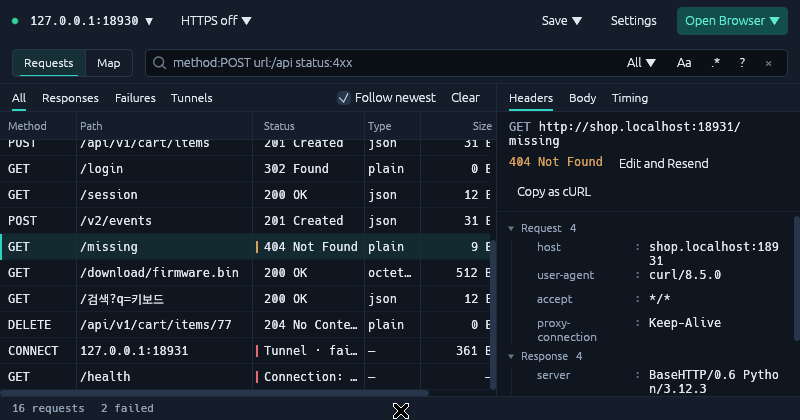
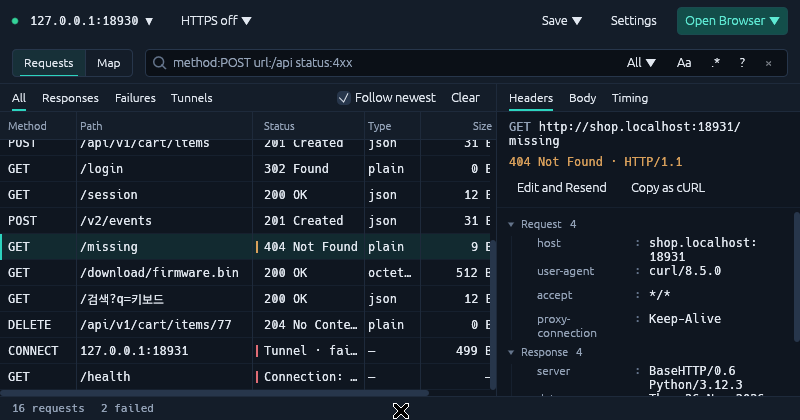
fix: Show the status line as sent and wrap values at spaces
The inspector's result line now shows the reason phrase the server sent
and the HTTP version it answered with (`502 Bad Gateway · HTTP/1.1`).
The redesign had dropped the old `Response headers · …` line, the only
place that showed them, leaving canonical phrases only and `Unknown
status` for nonstandard codes. The line sits in the result row rather
than the Response group so the status appears once (S16).

Key-value values no longer force `break_anywhere`: egui already breaks a
token without spaces anywhere when it does not fit, so URLs stay in the
column while values with spaces wrap between words again.

The status bar tooltips and the short body capture notices move to the
text catalog.

diff --git a/src/ui/workbench/tree.rs b/src/ui/workbench/tree.rs
@@ -359,14 +359,14 @@ pub(crate) fn key_value(
                 .selectable(false),
         );
         let width = (ui.available_width() - Space::MD).max(Layout::DETAIL_VALUE_MIN_WIDTH);
-        // Values such as URLs and tokens have no spaces, so they may break
-        // anywhere rather than run past the pane.
-        let mut job = std::sync::Arc::unwrap_or_clone(value.into().into_layout_job(
+        // Values wrap at spaces; a token without spaces, such as a URL,
+        // still breaks inside the value column because egui falls back to
+        // any position when a word does not fit on its row.
+        let job = value.into().into_layout_job(
             ui.style(),
             egui::FontSelection::Default,
             egui::Align::Min,
-        ));
-        job.wrap.break_anywhere = true;
+        );
         ui.allocate_ui_with_layout(
             egui::vec2(width, 0.0),
             egui::Layout::top_down(egui::Align::Min),
@@ -459,5 +459,65 @@ mod tests {
         items.sort_unstable();
         assert_eq!(items, [None, Some(true)]);
         Ok(())
+    }
+
+    /// Rows of the painted galley whose text is `text`, as strings.
+    fn painted_rows(shapes: &[egui::epaint::ClippedShape], text: &str) -> Vec<(String, f32)> {
+        shapes
+            .iter()
+            .filter_map(|clipped| match &clipped.shape {
+                egui::Shape::Text(shape) if shape.galley.text() == text => Some(shape),
+                _ => None,
+            })
+            .flat_map(|shape| {
+                shape.galley.rows.iter().map(|row| {
+                    let line: String = row.row.glyphs.iter().map(|glyph| glyph.chr).collect();
+                    (line, shape.pos.x + row.rect().right())
+                })
+            })
+            .collect()
+    }
+
+    #[test]
+    fn values_wrap_at_spaces_and_long_tokens_stay_in_the_column() {
+        const SPACED: &str = "Failed at Tunnel relay: Connection reset by peer (os error 104)";
+        const TOKEN: &str = "span-0123456789abcdefspan0123456789abcdefspan0123456789abcdef";
+        let ctx = egui::Context::default();
+        let mut value_column = 0.0;
+        let mut output = ctx.run_ui(egui::RawInput::default(), |ui| {
+            ui.allocate_ui(egui::vec2(320.0, 400.0), |ui| {
+                ui.set_width(320.0);
+                for value in [SPACED, TOKEN] {
+                    key_value(
+                        ui,
+                        96.0,
+                        "key",
+                        egui::RichText::new(value).font(fonts::data()),
+                    );
+                }
+                value_column = ui.max_rect().right();
+            });
+        });
+        output.textures_delta.clear();
+        let spaced = painted_rows(&output.shapes, SPACED);
+        assert!(spaced.len() > 1, "the value wraps: {spaced:?}");
+        let mut consumed = 0;
+        for (line, _) in &spaced {
+            consumed += line.len();
+            let next = SPACED.get(consumed..consumed + 1).unwrap_or(" ");
+            let last = line.chars().last().unwrap_or(' ');
+            assert!(
+                last == ' ' || next == " ",
+                "row {line:?} breaks inside a word"
+            );
+        }
+        let token = painted_rows(&output.shapes, TOKEN);
+        assert!(token.len() > 1, "a long token wraps: {token:?}");
+        for (line, right) in &token {
+            assert!(
+                *right <= value_column + 0.5,
+                "{line:?} runs past the column"
+            );
+        }
     }
 }

diff --git a/src/ui/requests/outcome_view.rs b/src/ui/requests/outcome_view.rs
@@ -98,6 +98,24 @@ fn tunnel_summary(tunnel: &TunnelPreview) -> String {
     }
 }
 
+/// Status text of the inspector's result line and the tone of an
+/// exceptional outcome. A response shows the reason phrase as the server
+/// sent it and the HTTP version it answered with; other outcomes show the
+/// same text as the request list.
+pub(crate) fn detail_status(outcome: &Outcome) -> (String, Option<Tone>) {
+    match outcome {
+        Outcome::Response(response) => (
+            crate::ui::workbench::text::response_line(
+                response.status().as_u16(),
+                response.reason(),
+                &format!("{:?}", response.version()),
+            ),
+            outcome_tone(outcome),
+        ),
+        _ => outcome_text(outcome),
+    }
+}
+
 pub(crate) const fn timing_label(outcome: &Outcome) -> &'static str {
     match outcome {
         Outcome::InFlight => "Waiting",
@@ -186,5 +204,45 @@ mod tests {
         assert!(matches("upstream tls handshake"));
         assert!(matches("certificate rejected"));
         assert!(!matches("response timeout"));
+    }
+
+    #[test]
+    fn inspector_shows_the_reason_and_version_the_server_sent()
+    -> Result<(), Box<dyn std::error::Error>> {
+        use http::{Method, StatusCode, Version};
+        use http_inspector_exchange::{ExchangeBuilder, ResponseFixture};
+
+        let answered = |fixture: ResponseFixture| {
+            ExchangeBuilder::http(Method::GET, "http://localhost:8080/api")?.respond(fixture)
+        };
+        let gateway = answered(
+            ResponseFixture::new(StatusCode::BAD_GATEWAY).reason("Upstream Took Too Long"),
+        )?;
+        assert_eq!(
+            detail_status(gateway.outcome()),
+            (
+                "502 Upstream Took Too Long · HTTP/1.1".to_owned(),
+                Some(Tone::Danger)
+            ),
+            "a nonstandard reason phrase is shown as sent"
+        );
+        let custom =
+            answered(ResponseFixture::new(StatusCode::from_u16(599)?).reason("Net Timeout"))?;
+        assert_eq!(
+            detail_status(custom.outcome()).0,
+            "599 Net Timeout · HTTP/1.1",
+            "a nonstandard code keeps its phrase instead of `Unknown status`"
+        );
+        let old = answered(ResponseFixture::new(StatusCode::OK).version(Version::HTTP_10))?;
+        assert_eq!(
+            detail_status(old.outcome()),
+            ("200 OK · HTTP/1.0".to_owned(), None)
+        );
+        // Other outcomes keep the request list's text.
+        assert_eq!(
+            detail_status(&Outcome::Cancelled),
+            outcome_text(&Outcome::Cancelled)
+        );
+        Ok(())
     }
 }

diff --git a/src/ui/workbench/text.rs b/src/ui/workbench/text.rs
@@ -354,6 +354,51 @@ pub(crate) fn focus_filter(shortcut: &str) -> String {
     format!("Focus filter ({shortcut})")
 }
 
+/// A response as the server sent it: status code, reason phrase as sent,
+/// and HTTP version, such as `502 Bad Gateway · HTTP/1.1`. A response
+/// without a reason phrase shows the code and version only.
+pub(crate) fn response_line(code: u16, reason: &str, version: &str) -> String {
+    if reason.is_empty() {
+        format!("{code} · {version}")
+    } else {
+        format!("{code} {reason} · {version}")
+    }
+}
+
+/// Body notice: the preview kept only the first `kib` KiB.
+pub(crate) fn body_truncated(kib: usize) -> String {
+    format!("Showing the first {kib} KiB captured")
+}
+
+/// Body notice: the body is still arriving.
+pub(crate) const BODY_STREAMING: &str = "Still receiving; showing what arrived";
+
+/// Body notice: the body stopped before its end.
+pub(crate) const BODY_ENDED: &str = "Ended early; showing what arrived";
+
+/// Tooltip of the dropped-records entry of the status bar.
+pub(crate) const DROPPED_HINT: &str =
+    "The capture queue was full, so these exchanges were forwarded but not shown.";
+
+/// Tooltip of the removed-records entry of the status bar.
+pub(crate) fn older_removed_hint(kept: usize) -> String {
+    format!(
+        "Only the newest {kept} requests stay on screen; the full-session log keeps every record."
+    )
+}
+
+/// Tooltip of the URL map limit entry of the status bar.
+pub(crate) fn url_map_limit_hint(nodes: usize) -> String {
+    format!("The URL map reached {nodes} nodes; deeper paths are folded into parent nodes.")
+}
+
+/// Tooltip of the log body limit entry of the status bar.
+pub(crate) fn log_body_limit_hint(limit: &str) -> String {
+    format!(
+        "Body bytes after {limit} are left out of the full-session log; headers and results are still logged."
+    )
+}
+
 /// Bodies the search could read only in part.
 pub(crate) fn partly_searched(count: usize) -> String {
     format!("{count} bodies partly searched")
@@ -498,6 +543,11 @@ mod tests {
         assert_eq!(map_count(3, 17), "3 hosts · 17 nodes");
         assert_eq!(search_progress(4, 9), "Searching… 4/9");
         assert_eq!(match_position(1, 3), "1/3");
+        assert_eq!(
+            response_line(502, "Bad Gateway", "HTTP/1.1"),
+            "502 Bad Gateway · HTTP/1.1"
+        );
+        assert_eq!(response_line(200, "", "HTTP/2.0"), "200 · HTTP/2.0");
         assert_eq!(milliseconds(52.64), "52.6 ms");
         assert_eq!(milliseconds_running(1204.4), "1204 ms…");
     }

diff --git a/src/ui/app/status_bar.rs b/src/ui/app/status_bar.rs
@@ -120,7 +120,7 @@ impl InspectorApp {
             items.push(StatusItem::marked(
                 Tone::Danger,
                 text::dropped(dropped),
-                "The capture queue was full, so these exchanges were forwarded but not shown.",
+                text::DROPPED_HINT,
             ));
         }
         let evicted = self.requests.records.evicted();
@@ -128,9 +128,7 @@ impl InspectorApp {
             items.push(StatusItem::marked(
                 Tone::Warning,
                 text::older_removed(evicted),
-                format!(
-                    "Only the newest {MAX_RECORDS} requests stay on screen; the full-session log keeps every record."
-                ),
+                text::older_removed_hint(MAX_RECORDS),
             ));
         }
         let map = self.map.analysis.url_map();
@@ -138,10 +136,7 @@ impl InspectorApp {
             items.push(StatusItem::marked(
                 Tone::Warning,
                 ShellText::UrlMapLimit.text(),
-                format!(
-                    "The URL map reached {} nodes; deeper paths are folded into parent nodes.",
-                    map.max_nodes()
-                ),
+                text::url_map_limit_hint(map.max_nodes()),
             ));
         }
         let log_error = self
@@ -174,10 +169,7 @@ impl InspectorApp {
             items.push(StatusItem::marked(
                 Tone::Warning,
                 ShellText::LogBodyLimit.text(),
-                format!(
-                    "Body bytes after {} are left out of the full-session log; headers and results are still logged.",
-                    ByteSize::new(log.body_limit()).exact()
-                ),
+                text::log_body_limit_hint(&ByteSize::new(log.body_limit()).exact().to_string()),
             ));
         }
         items

diff --git a/src/ui/detail/body_cache.rs b/src/ui/detail/body_cache.rs
@@ -10,6 +10,8 @@ use http_inspector_content::format::{
 use http_inspector_exchange::{BodyLifecycle, BodyRetention, BodySide, BodySnapshot, MediaType};
 use std::sync::Arc;
 
+use crate::ui::workbench::text;
+
 /// A captured body preview to show.
 pub(super) struct BodySource<'a> {
     /// [`http_inspector_exchange::RecordId::value`] of the exchange the body belongs to.
@@ -64,12 +66,11 @@ impl Capture {
     fn notice(self) -> Option<Notice> {
         let text = match self {
             Self::Whole => return None,
-            Self::Truncated => format!(
-                "Showing the first {} KiB captured",
-                http_inspector_exchange::capture::BODY_PREVIEW_BYTES / 1024
-            ),
-            Self::Streaming => "Still receiving; showing what arrived".to_owned(),
-            Self::Ended => "Ended early; showing what arrived".to_owned(),
+            Self::Truncated => {
+                text::body_truncated(http_inspector_exchange::capture::BODY_PREVIEW_BYTES / 1024)
+            }
+            Self::Streaming => text::BODY_STREAMING.to_owned(),
+            Self::Ended => text::BODY_ENDED.to_owned(),
         };
         Some(Notice::warning(text))
     }

diff --git a/src/ui/app/layout_tests.rs b/src/ui/app/layout_tests.rs
@@ -1797,6 +1797,8 @@ async fn inspector_rows_follow_the_tree_grid_in_every_tab() -> Result<(), Box<dy
     for group in ["Query", "Request", "Response"] {
         text_top(&drawn, group)?;
     }
+    // The result line names the status and HTTP version the server sent.
+    text_top(&drawn, "200 OK · HTTP/1.1")?;
     // Query parameters are one-line key-value rows, one tree row apart.
     // One-line key-value rows are one tree row apart, and their colons
     // line up in one column after the keys.

diff --git a/src/ui/detail/detail_view.rs b/src/ui/detail/detail_view.rs
@@ -190,7 +190,7 @@ fn summary_row(
     actions: &mut Vec<AppAction>,
 ) {
     ui.horizontal_wrapped(|ui| {
-        let (status, tone) = outcome_view::outcome_text(record.outcome());
+        let (status, tone) = outcome_view::detail_status(record.outcome());
         ui.label(
             egui::RichText::new(status)
                 .font(fonts::data())

diff --git a/CHANGELOG.md b/CHANGELOG.md
@@ -25,7 +25,7 @@
 - 잘못된 정규식은 필터 입력란의 빨간 테두리와 오른쪽 끝 `Invalid pattern`으로 표시한다. 입력란에 포커스가 있으면 파란 테두리로 보인다. 스크롤바는 바탕 없는 6pt 손잡이로 바뀐다.
 - 목록과 상세의 기본 너비 비율을 62:38로 바꾸고, 가운데 경계를 1px 선과 5pt 끌기 영역으로 줄인다.
 - 포트 충돌·권한 오류 안내와 CA 등록 후 안내를 한 문장으로 줄이고, CA 등록 후 안내에 **Dismiss**를 둔다.
-- 상세 패널의 **Headers** 탭을 요청 줄과 **Query**·**Request**·**Response**(터널은 **Tunnel**) 묶음의 키-값 트리로 바꾼다. 묶음은 접고 펼칠 수 있고, 키는 한 열에 맞추며 마스킹한 값은 흐린 글자로 보인다. 연결 단계별 시간은 모든 탭 위에서 새 **Timing** 탭으로 옮긴다.
+- 상세 패널의 **Headers** 탭을 요청 줄과 **Query**·**Request**·**Response**(터널은 **Tunnel**) 묶음의 키-값 트리로 바꾼다. 묶음은 접고 펼칠 수 있고, 키는 한 열에 맞추며 마스킹한 값은 흐린 글자로 보인다. 연결 단계별 시간은 모든 탭 위에서 새 **Timing** 탭으로 옮긴다. 결과 줄은 서버가 보낸 reason phrase와 HTTP 버전을 함께 보여 준다(`502 Bad Gateway · HTTP/1.1`).
 - **Body** 탭에서 요청·응답 본문마다 이름, 형식, 크기와 **Save ▼** 메뉴가 있는 머리줄을 두고, 본문에 줄 번호 열을 붙인다. 보기 방식은 **Pretty**·**Raw**·**Tree** 토글로 고른다. `119 bytes observed · complete · full preview`와 `Format: JSON · Pretty` 줄은 머리줄의 형식·크기로 대신하고, 잘린 미리보기 안내는 짧은 한 줄로 줄인다.
 - 구문 강조 색을 디자인 토큰의 범주 색(키·태그 Cat-1, 문자열 Cat-3, 숫자·리터럴 Cat-4)과 보조 글자색으로 바꾼다. 검색 일치는 노란 배경 대신 교차 강조 배경으로, 현재 일치는 밑줄을 더해 표시하고 이동 버튼은 `1/3` **Previous**·**Next**로 줄인다.
 - URL 맵의 **Tree**·**Graph** 전환과 **Export**·**Clear**를 맵 패널 머리줄로, 필터는 머리줄 아래 한 줄로 옮긴다. 트리 행은 24pt 높이에 깊이마다 가이드선을 그리고, 상태 비율 막대 대신 오류 수와 요청 수를 열을 맞춘 숫자로 보여 준다. 상세 패널은 노드 URL과 **Show in Requests**가 있는 머리줄 아래 **Summary**·**Endpoints**·**Query names**·**Requests** 묶음으로 바뀐다.

diff --git a/docs/guide/body-view.md b/docs/guide/body-view.md
@@ -47,6 +47,7 @@
 - JavaScript 정리는 토큰 사이의 공백만 바꾼다. 문자열, 템플릿 리터럴(`${…}` 포함), 정규식, 주석은 한 글자도 바꾸지 않고, 원문에 있던 줄바꿈은 유지하며(자동 세미콜론 삽입 의미 보존) 문법 의미를 바꾸지 않는 곳에만 줄바꿈을 더한다. `/`가 정규식인지 나눗셈인지는 앞 토큰과 괄호 종류(`if (…)` 뒤, 블록 `}` 뒤 등)로 판별하며, 줄바꿈으로 끊긴 문자열·정규식이나 짝이 맞지 않는 괄호처럼 추측이 필요한 입력은 정리하지 않고 원문을 보여 준다.
 - 스크립트가 8KiB 미리보기에서 잘리면 읽은 부분까지 정리하고, 끝나지 않은 문자열·주석·블록 등이나 캡처가 일부뿐이라는 경고를 표시한다. `//# sourceMappingURL=` 주석이 있으면 URL을 안내하지만 소스맵 파일은 가져오지 않는다. 스크립트는 실행하지 않는다.
 - 색은 글자 자체의 구분(키 뒤의 `:`, 따옴표, 꺾쇠괄호, 주석의 기울임)을 보조할 뿐이며, 밝은·어두운 테마의 모든 배경에서 4.5:1 이상 대비를 테스트로 확인한다.
+- 상세 머리줄 아래 결과 줄은 응답이면 서버가 보낸 상태 코드, reason phrase 그대로와 HTTP 버전(`502 Bad Gateway · HTTP/1.1`)을 보여 준다. 표준에 없는 코드나 문구도 받은 그대로 표시한다.
 - **Headers** 탭은 요청 줄(메서드와 URL) 아래에 **Query**, **Request**, **Response** 묶음을 키-값 트리로 보여 준다. 묶음 제목 옆 숫자는 항목 수이고, 제목을 누르거나 포커스한 뒤 `←`·`→`·`Enter`로 접고 펼친다. 키는 보조 글자색으로 한 열에 맞추고, 값은 고정폭 글꼴로 줄을 넘긴다. 쿼리는 퍼센트 디코딩한 키와 값으로 나눠 보여 준다. 마스킹한 헤더 값(`[REDACTED]`)은 보조 글자색으로 표시한다. 헤더 행을 오른쪽 클릭하면 그 값으로 목록을 거르거나 제외하는 필터 항목이 나온다.
 - 복호화하지 않은 `CONNECT` 터널은 **Tunnel** 묶음에 상태, 보낸·받은 바이트, 지속 시간을 보여 준다. 터널 안의 URL·헤더·본문은 기록되지 않는다.
 - **Timing** 탭은 Connect, Send, Wait (TTFB), Receive, 결과까지의 시간, Total을 표로 보여 준다. 시간은 오른쪽 정렬한 고정폭 숫자이며, 관찰하지 못한 단계는 `—`로 표시한다.
